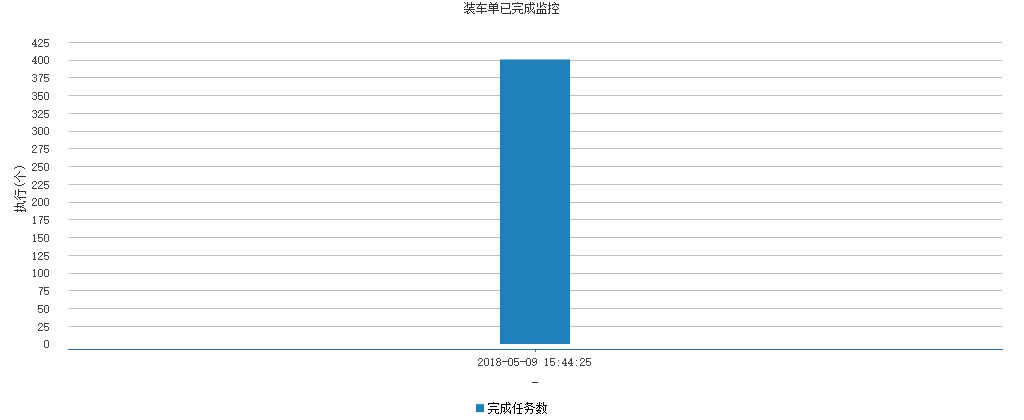
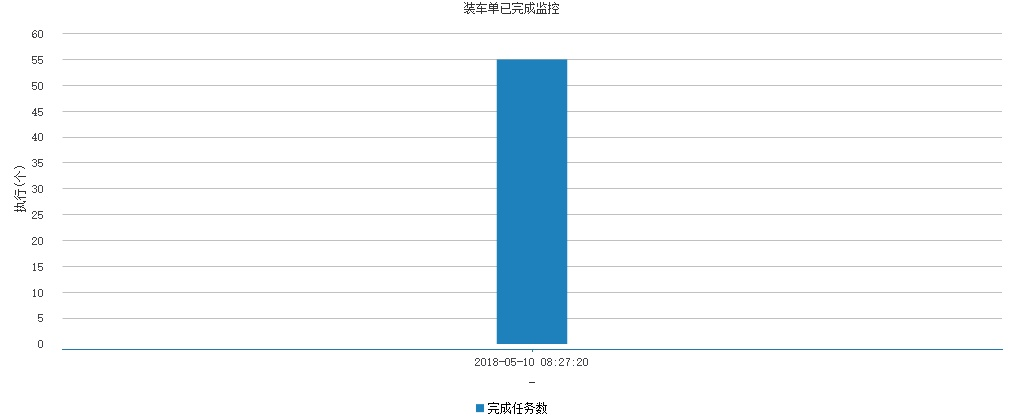
支持非开发人员测试

diff --git a/WebContent/dateView/error.html b/WebContent/dateView/error.html
@@ -1,0 +1,27 @@
+<html>
+<head>
+<META http-equiv="X-UA-Compatible" content="chrome=1">
+<META http-equiv=Content-Type content="text/html; charset=utf-8">
+<link rel="Shortcut Icon" href="favicon.ico">
+<link rel="Bookmark" href="favicon.ico">
+<style>
+body {
+  background-color: white;
+  color: black;
+  margin: 0px 0px 0px 0px;
+  overflow-x:hidden;
+  overflow-y:hidden
+}
+</style>
+</head>
+<body >
+<table border="0" cellpadding="0" width="100%">
+        <tr>
+            <td align="center" rowspan="2" valign="bottom">
+                <font size="1" color="red"><b>操作发生了意外...</b></font></td>
+            <td align="center">
+            </td>
+        </tr>
+	</table>
+</body>
+</html>

diff --git a/src/com/yc/view/servlet/TestUploadServerlt.java b/src/com/yc/view/servlet/TestUploadServerlt.java
@@ -1,0 +1,72 @@
+package com.yc.view.servlet;
+import java.io.FileOutputStream;
+import java.io.IOException;
+import java.io.InputStream;
+import java.net.HttpRetryException;
+import java.util.List;
+import javax.servlet.ServletException;
+import javax.servlet.http.HttpServlet;
+import javax.servlet.http.HttpServletRequest;
+import javax.servlet.http.HttpServletResponse;
+import org.apache.commons.fileupload.FileItem;
+import org.apache.commons.fileupload.FileItemFactory;
+import org.apache.commons.fileupload.disk.DiskFileItemFactory;
+import org.apache.commons.fileupload.servlet.ServletFileUpload;
+@SuppressWarnings("serial")
+public class TestUploadServerlt extends HttpServlet {
+
+	public void service(HttpServletRequest request, HttpServletResponse response)
+		throws HttpRetryException, IOException {
+
+		try {
+			//解析http请求
+			boolean isMultipart = ServletFileUpload.isMultipartContent(request);
+			//解析成功
+			if (isMultipart == true) {
+				// 获得磁盘文件条目工厂
+				FileItemFactory factory = new DiskFileItemFactory();
+				// 高水平的API文件上传处理，将文件保存在服务器硬盘
+				ServletFileUpload upload = new ServletFileUpload(factory);
+				//设置上传的单个文件的大小6M
+				upload.setSizeMax(6*1024*1024);
+				//设置上传的总文件的大小40M
+				upload.setFileSizeMax(40*1024*1024);
+				//http中的复杂表单元素都被看作是FileItem,所以可以上传多个文件
+				List<FileItem> fileItemList = upload.parseRequest(request);
+				//如果表单内容不为空
+				if (fileItemList != null) {
+					//遍历内容
+					for (FileItem fileItem: fileItemList) {
+						//如果是字符:<input type="text" name="mytext" value="123456"/>
+						if (fileItem.getFieldName().equalsIgnoreCase("mytext")) {
+							String text2 = fileItem.getString();
+						}
+						//如果是文件:<input type="file" name="myfile">
+						if (fileItem.getFieldName().equalsIgnoreCase("myfile")) {
+							InputStream in = fileItem.getInputStream();
+							//写入指定目录下
+							FileOutputStream fos = new FileOutputStream("D:/temp/t.json");
+							byte[] buffer = new byte[1024];
+							int length;
+							while ((length = in.read(buffer)) != -1) {
+								fos.write(buffer, 0, length);
+							}
+							in.close();
+							fos.close();
+							//清除应用服务器下的临时文件
+							fileItem.delete();
+						}
+					}
+				}
+				request.getRequestDispatcher("/index.jsp").forward(request,response);
+			}
+		} catch (Exception e) {
+			e.printStackTrace();
+			try {
+				request.getRequestDispatcher("/error.jsp").forward(request,response);
+			} catch (ServletException e1) {
+				e1.printStackTrace();
+			}
+		}
+	}
+}

diff --git a/src/com/yc/view/servlet/UploadServerlt.java b/src/com/yc/view/servlet/UploadServerlt.java
@@ -1,0 +1,68 @@
+package com.yc.view.servlet;
+import java.io.FileOutputStream;
+import java.io.IOException;
+import java.io.InputStream;
+import java.net.HttpRetryException;
+import java.util.List;
+import javax.servlet.ServletException;
+import javax.servlet.http.HttpServlet;
+import javax.servlet.http.HttpServletRequest;
+import javax.servlet.http.HttpServletResponse;
+import org.apache.commons.fileupload.FileItem;
+import org.apache.commons.fileupload.FileItemFactory;
+import org.apache.commons.fileupload.disk.DiskFileItemFactory;
+import org.apache.commons.fileupload.servlet.ServletFileUpload;
+@SuppressWarnings("serial")
+public class UploadServerlt extends HttpServlet {
+
+	public void service(HttpServletRequest request, HttpServletResponse response)
+		throws HttpRetryException, IOException {
+
+		try {
+			//解析http请求
+			boolean isMultipart = ServletFileUpload.isMultipartContent(request);
+			//解析成功
+			if (isMultipart == true) {
+				FileItemFactory factory = new DiskFileItemFactory();
+				ServletFileUpload upload = new ServletFileUpload(factory);
+				//设置上传的单个文件的大小6M
+				upload.setSizeMax(6*1024*1024);
+				//设置上传的总文件的大小40M
+				upload.setFileSizeMax(40*1024*1024);
+				List<FileItem> fileItemList = upload.parseRequest(request);
+				String dispatcher = "/index.jsp";
+				//如果表单内容不为空
+				if (fileItemList != null) {
+					//遍历内容
+					for (FileItem fileItem: fileItemList) {
+						//如果是文件:<input type="file" name="left_top_demo">
+						if (fileItem.getFieldName().equalsIgnoreCase("left_top_demo")) {
+							InputStream in = fileItem.getInputStream();
+							//写入指定目录下
+							FileOutputStream fos = new FileOutputStream("left_top_demo.json");
+							byte[] buffer = new byte[1024];
+							int length;
+							while ((length = in.read(buffer)) != -1) {
+								fos.write(buffer, 0, length);
+							}
+							in.close();
+							fos.close();
+							//清除应用服务器下的临时文件
+							fileItem.delete();
+							dispatcher = "/left_top_demo.jsp";
+							break;
+						}
+					}
+				}
+				request.getRequestDispatcher(dispatcher).forward(request,response);
+			}
+		} catch (Exception e) {
+			e.printStackTrace();
+			try {
+				request.getRequestDispatcher("/error.html").forward(request,response);
+			} catch (ServletException e1) {
+				e1.printStackTrace();
+			}
+		}
+	}
+}

diff --git a/src/com/yc/view/servlet/ChartImageServlet.java b/src/com/yc/view/servlet/ChartImageServlet.java
@@ -11,6 +11,7 @@ import javax.servlet.http.HttpServlet;
 import javax.servlet.http.HttpServletRequest;
 import javax.servlet.http.HttpServletResponse;
 
+import org.apache.commons.lang.StringUtils;
 import org.jfree.chart.ChartUtilities;
 import org.springframework.context.ApplicationContext;
 import org.springframework.web.context.support.WebApplicationContextUtils;
@@ -20,7 +21,9 @@ import com.yc.view.service.ChartJdbcInit;
 import com.yc.view.service.ChartjsonInit;
 import com.yc.view.utils.ChartGlobal;
 import com.yc.view.utils.ProjectUtils;
-//  http://localhost:8081/dateView/chartJson?parameter=left_top
+// http://localhost:8081/dateView/chartJson?parameter=left_top
+// 本地调试URL
+// http://localhost:8081/dateView/chartJson?parameter=left_top&path=D:\json\left_top_normal.json
 public class ChartImageServlet extends HttpServlet{
 
 	/**
@@ -56,20 +59,24 @@ public class ChartImageServlet extends HttpServlet{
     */
     protected void doPost(HttpServletRequest request, HttpServletResponse response) throws ServletException, IOException {
     	
-    	String jsonFile = ChartGlobal.LEFT_TOP+ChartGlobal.jsonEnd;
-    	String json = null;
-		try {
-			json = ProjectUtils.getString(ProjectUtils.getByte(jsonFile));
-		} catch (IOException e) {
-			e.printStackTrace();
-		}
-    	
-    	String name = null;
+    	String jsonFile = null,json = null,name = null;
     	if(ChartGlobal.LEFT_TOP.equals(request.getParameter("parameter"))){
+    		jsonFile = ChartGlobal.LEFT_TOP+ChartGlobal.jsonEnd;
+    	}else if(ChartGlobal.LEFT_TOP_DEMO.equals(request.getParameter("parameter"))){
+    		jsonFile = ChartGlobal.LEFT_TOP_DEMO+ChartGlobal.jsonEnd;
+    		
+    	}
+    	if(!StringUtils.isEmpty(jsonFile)){
+    		try {
+    			json = ProjectUtils.getString(ProjectUtils.getByte(jsonFile));
+    		} catch (IOException e) {
+    			e.printStackTrace();
+    		}
     		name = ChartGlobal.LEFT_TOP+ChartGlobal.imageEnd;
     		outBarChartLayJpeg(json,name);
     		returnRequest(response,name);
-    	}else{
+    	}
+    	else{
     		returnErrorRequest(response,"parameter is not avaliable!");
     	}
     	

diff --git a/src/com/yc/view/job/EdiJobHelper.java b/src/com/yc/view/job/EdiJobHelper.java
@@ -41,26 +41,26 @@ public class EdiJobHelper extends AbstractEdiJobHelper{
 		logger.info("EdiJobHelper[doLeftTopJob] started....................");
 		chartjsonInit = (ChartjsonInit) applicationContext.getBean(ChartjsonInit.BEAN);
 		URL url = this.getClass().getResource(repeatIntervalFile);
-		int time = 20;
+		int time = 0,globalTime = 20;
 		String tt = PropertiesUtil.getPropertiesKey(url.getPath(), "doLeftTopJob");
 		if(StringUtils.isEmpty(tt)){
-			time = 20;
+			time = globalTime;
 		}else{
 			if(ProjectUtils.isNumeric1(tt)){
 				time = Integer.valueOf(tt);
 			}else{
-				time = 20;
+				time = globalTime;
 			}
 		}
-		while (true) {
-			System.out.println("doLeftTopJob..."+DateUtil.format(new Date(), DateUtil.dmy_hms));
+//		String jsonFile = "leftTop_"+DateUtil.format(new Date(), DateUtil.yyMMddHHmmssSSS)+".json";
+		int num = 1000*time;
+		Boolean beTrue = num >= 1000;
+		while (beTrue) {
 			String json = chartjsonInit.leftTop();
-//			String jsonFile = "leftTop_"+DateUtil.format(new Date(), DateUtil.yyMMddHHmmssSSS)+".json";
 			String jsonFile = ChartGlobal.LEFT_TOP+ChartGlobal.jsonEnd;
 			ProjectUtils.createTxt(jsonFile,json.trim(), ChartGlobal.encodeing);
 			try {
-				int num = 1000*time;
-				System.out.println("EdiJobHelper[doLeftTopJob] sleep -------"+time+"s");
+				System.out.println("doLeftTopJob..."+DateUtil.format(new Date(), DateUtil.dmy_hms)+" -- "+time+"s");
 				Thread.sleep(num);
 			} catch (InterruptedException e) {
 				logger.error("", e);
@@ -70,5 +70,6 @@ public class EdiJobHelper extends AbstractEdiJobHelper{
 				break;
 			}
 		}
+		logger.info("EdiJobHelper[doLeftTopJob] over....................");
 	}
 }

diff --git a/src/com/yc/view/utils/ChartGlobal.java b/src/com/yc/view/utils/ChartGlobal.java
@@ -10,6 +10,7 @@ public interface ChartGlobal {
 	static final String PORTMESG = "globalMesg.properties";//配置信息
 	//左上角展示图片数据文件
 	static final String LEFT_TOP = "left_top";
+	static final String LEFT_TOP_DEMO = "left_top_demo";
 	//弹出界面展示图片路径  1024*420
 	static final String SIZE_TWO = "sizetwo";
 }
